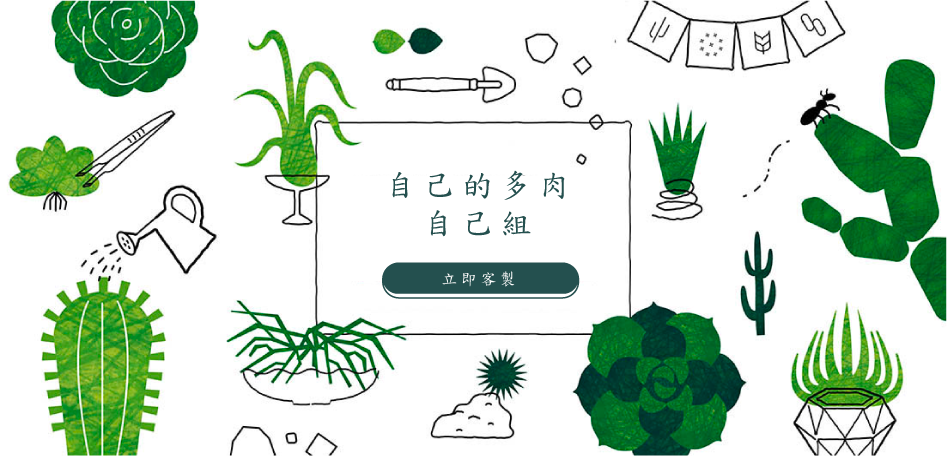
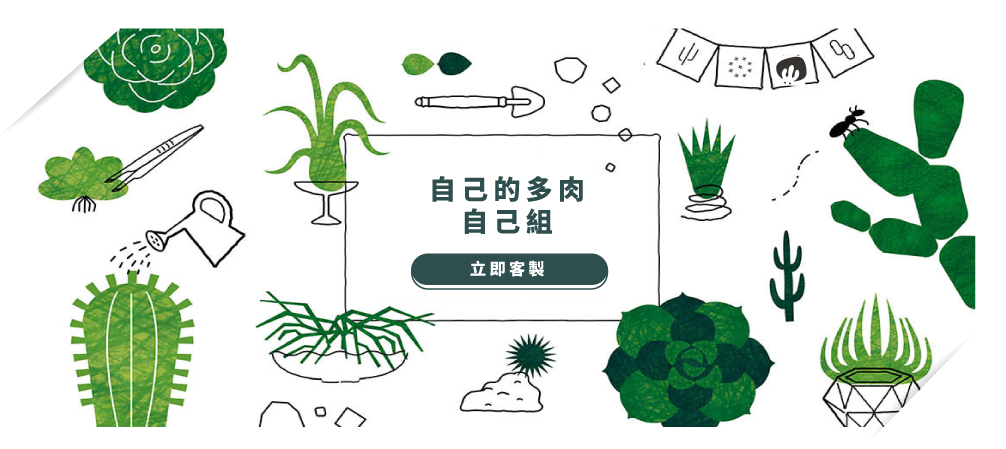
首頁圖_主視覺修正

diff --git a/main.html b/main.html
@@ -64,7 +64,7 @@
     <!-- 主視覺 -->
     <main id="main">
         <div class="intro">
-            <div class="intro_tit">肉多怪不怪？</div>
+            <div class="intro_tit"><img src="./img/index/main_tit.png" alt=""></div>
             <div class="visual-wrap">
                 <div class="visual-list">
                     <div class="item item04 origin"><img src="img/index/plant_05.png" alt=""></div>
@@ -611,8 +611,8 @@
       <!-- 課程輪播2 -->
       <div class="swiper-slide">
         <picture class="index_work_box">
-            <source srcset="img/index/workshop_01_mb.png" media="(max-width: 990px)">
-            <img src="img/index/workshop_01.png" alt="">
+            <source srcset="img/index/workshop_02_mb.png" media="(max-width: 990px)">
+            <img src="img/index/workshop_02.png" alt="">
             <div class="index_work_txt">
                 <div class="txt_tit">
                     <p class="work_no">02</p>
@@ -658,8 +658,8 @@
       <!-- 課程輪播3 -->
       <div class="swiper-slide">
         <picture class="index_work_box">
-            <source srcset="img/index/workshop_01_mb.png" media="(max-width: 990px)">
-            <img src="img/index/workshop_01.png" alt="">
+            <source srcset="img/index/workshop_03_mb.png" media="(max-width: 990px)">
+            <img src="img/index/workshop_03.png" alt="">
             <div class="index_work_txt">
                 <div class="txt_tit">
                     <p class="work_no">03</p>
@@ -719,8 +719,8 @@
     <!-----------部落格-------->
     <div class="index_blog">
         <article>
-            <h1>Blog</h1>
-            <h1 class="h1_small">部落格</h1>
+            <h1>Information</h1>
+            <h1 class="h1_small">多肉知識</h1>
             <ul class="index_blog_wrapper">
                 <li>
                     <a href="">
@@ -887,7 +887,7 @@
       slidesPerView: 1,
       loop: true,
 	  autoplay: {
-			delay: 2500,
+			delay: 3000,
 			disableOnInteraction: false,
       	},
     pagination: {

diff --git a/css/top.css b/css/top.css
@@ -3,7 +3,7 @@
 
 #main .sp{ display: none; }
 #main .intro{ width: 100%; height: 100vh;  min-height: 630px; max-height: 770px; position: relative; }
-#main .intro .intro_tit{ position: absolute; top: 0; right: 0; }
+#main .intro .intro_tit{ position: absolute; width: 110px; top: 22%; right: 15%; z-index: 2;}
 #main .intro .visual-wrap{ position: absolute; left: 0; top: 0; width: 100%; height: 100%; overflow: hidden; background-image: url(../img/gray_bg.png);}
 #main .intro .visual-list{ position: absolute; left: 50%; bottom: 0; z-index: 5; overflow: hidden; }
 #main .intro .visual-list .item{ float: left; transform: translateX(80px); }
@@ -25,6 +25,9 @@
 	#main .intro .visual-list .item05{ margin-right: 0%; width: 52.54vw; }
 	#main .intro .visual-list .item img{ height: auto; width: 100%; }
 	
+}
+@media screen and (max-width: 414px) {
+	#main .intro .intro_tit{width: 80px; right: 38%;}
 }
 
 /*animation*/

diff --git a/sass/_main.scss b/sass/_main.scss
@@ -142,8 +142,8 @@ article {
     .main_about_bg{
     
       background-image: url("../img/background.png");
-      background-size: 110%;
-   
+      background-size: 120%;
+      height: 80vw;
       background-repeat: no-repeat;
       background-position:center center;
     article{
@@ -214,7 +214,7 @@ article {
         }
         img {
           width: 100%;
-          max-width: 850px;
+          max-width: 900px;
           @include pad{
             float: unset;
             margin-right: 0;

diff --git a/css/style.css b/css/style.css
@@ -403,7 +403,8 @@ article .main_about_title1 {
 
 .main_about_bg {
   background-image: url("../img/background.png");
-  background-size: 110%;
+  background-size: 120%;
+  height: 80vw;
   background-repeat: no-repeat;
   background-position: center center;
 }
@@ -501,7 +502,7 @@ article .main_about_title1 {
 
 .main_about_bg article .index_about img {
   width: 100%;
-  max-width: 850px;
+  max-width: 900px;
 }
 
 @media (max-width: 990px) {
